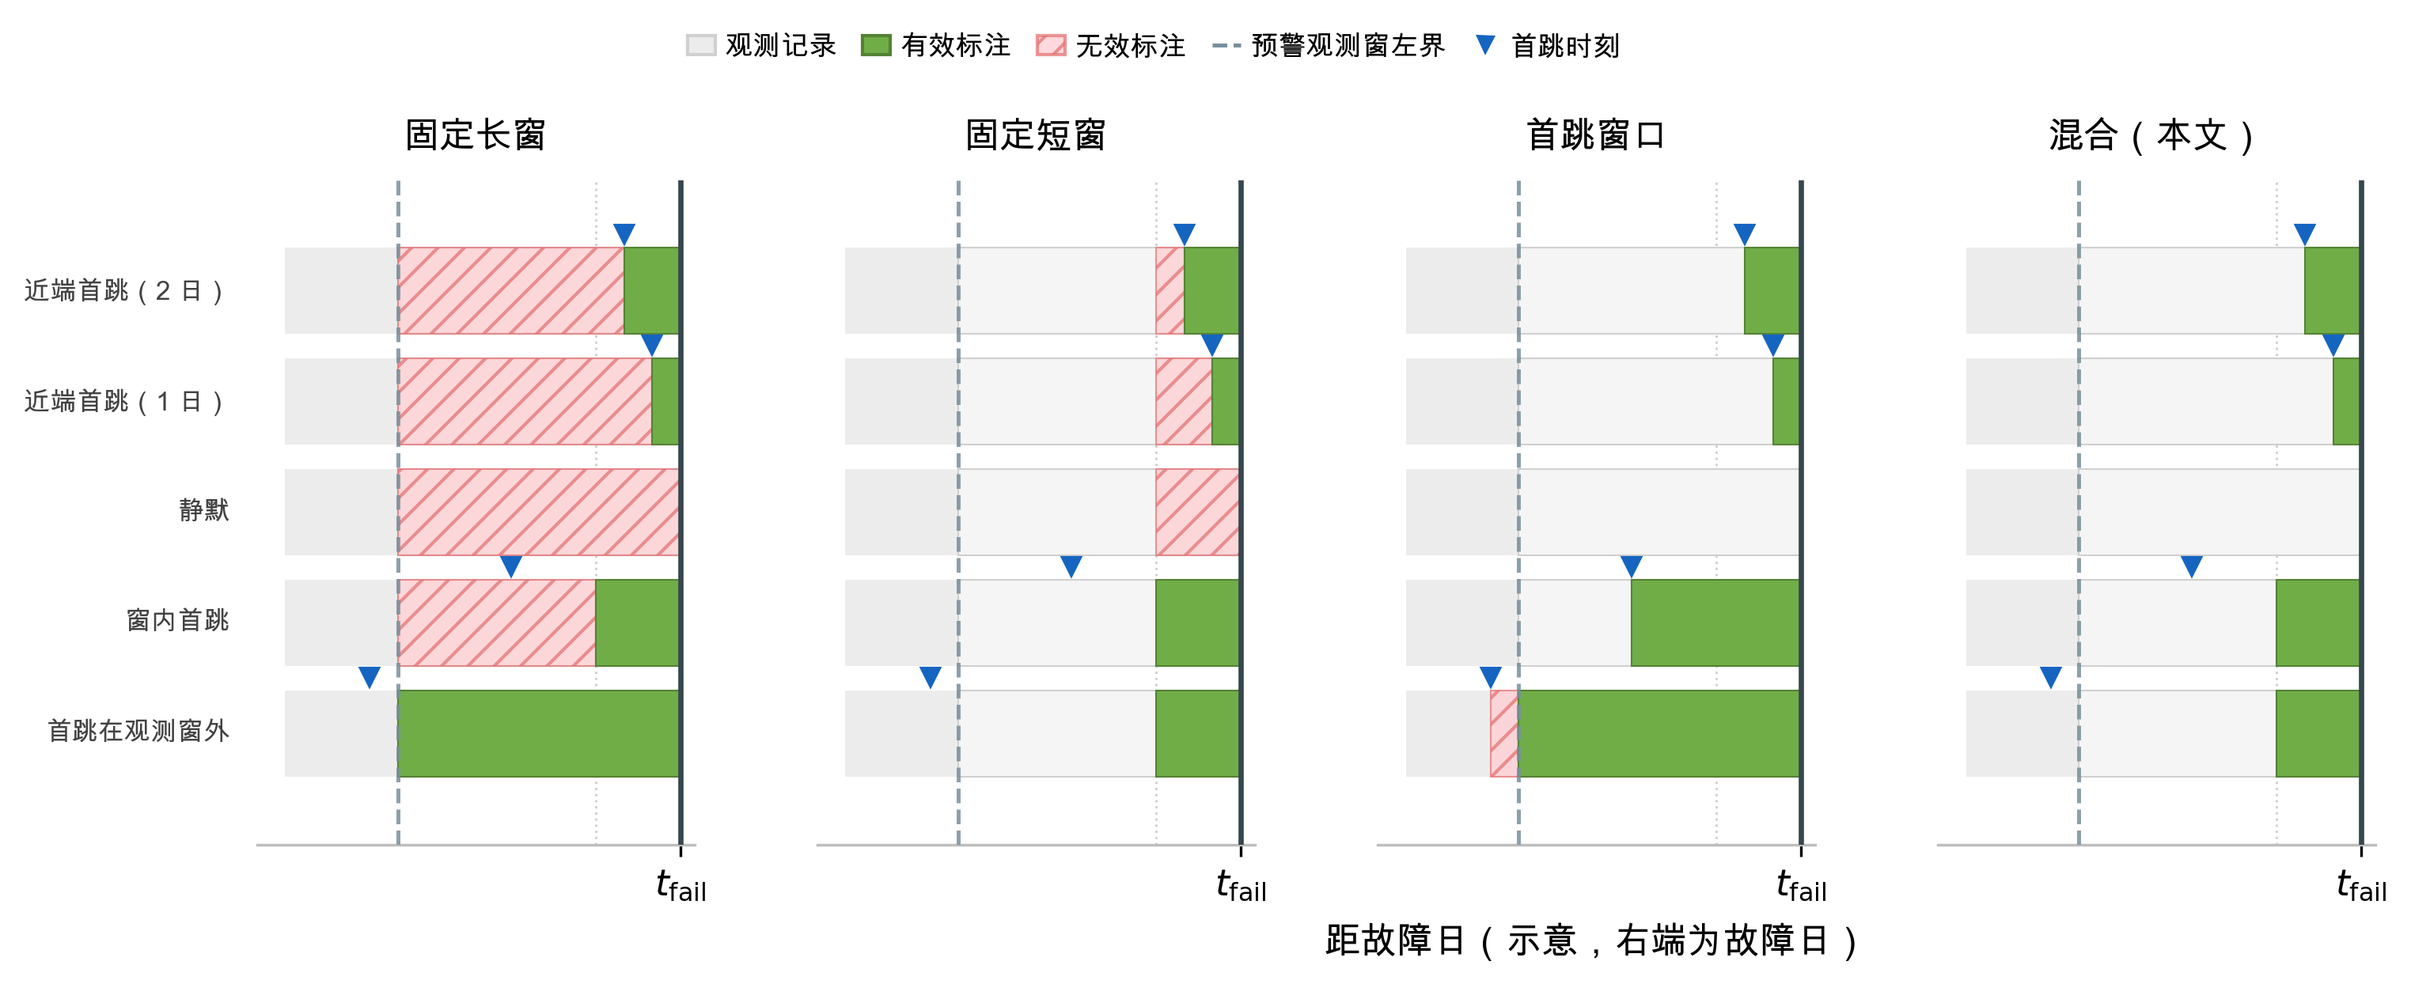
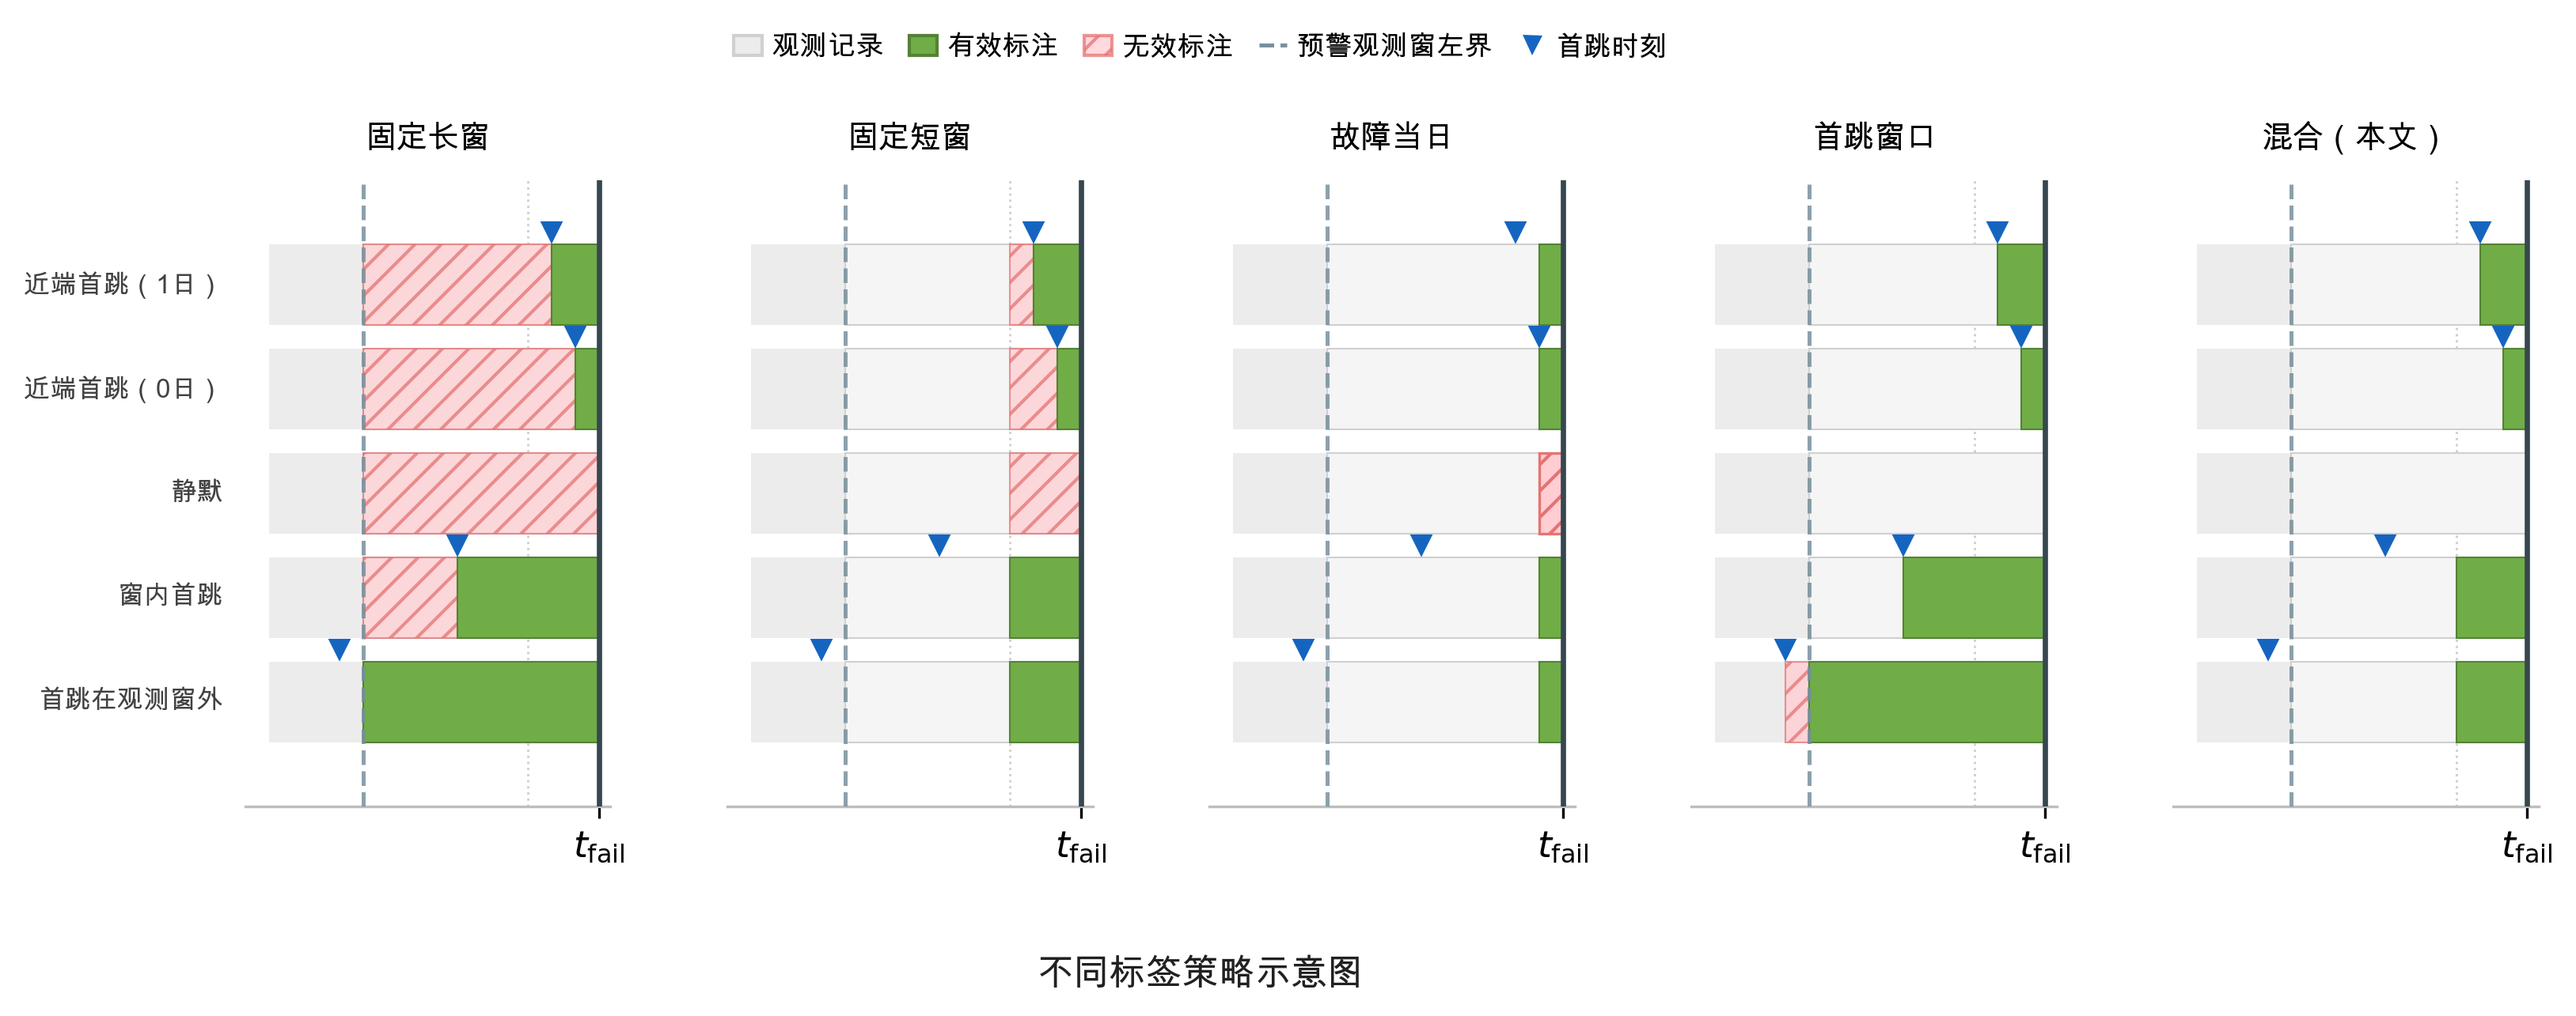
添加标签策略对比

diff --git a/figure_codes/chap3_label_strategy.py b/figure_codes/chap3_label_strategy.py
@@ -1,6 +1,6 @@
-"""第三章：四种标记策略对比示意
+"""第三章：五种标记策略对比示意
 
-生成 figure/chap3-label-strategy.png 与 .pdf。
+生成 figure/chap3-label-strategy.png。
 
 横轴为示意天数（非真实日历），仅保持相对位置：
 近端 d=1,2,3 更易辨认，远端首跳压缩。
@@ -35,8 +35,8 @@ RECORD_EXT = 4
 RECORD_LEFT = W + RECORD_EXT
 
 DISKS = [
-    ("近端首跳（2 日）", 2),
-    ("近端首跳（1 日）", 1),
+    ("近端首跳（1日）", 2),
+    ("近端首跳（0日）", 1),
     ("静默", None),
     ("窗内首跳", 6),
     ("首跳在观测窗外", 11),
@@ -45,6 +45,7 @@ DISKS = [
 STRATEGIES = [
     ("fix_long", "固定长窗"),
     ("fix_short", "固定短窗"),
+    ("fix_day", "故障当日"),
     ("jump", "首跳窗口"),
     ("mix", "混合（本文）"),
 ]
@@ -63,7 +64,6 @@ COLORS = {
 
 BAR_H = 0.13
 OUTPUT_PNG = FIGURE_DIR / "chap3-label-strategy.png"
-OUTPUT_PDF = FIGURE_DIR / "chap3-label-strategy.pdf"
 
 
 def _rect(ax, d_left, d_right, y, h, **kwargs):
@@ -76,7 +76,15 @@ def _obs_jump(d_jump, w=W):
     return d_jump
 
 
+def _resolve_strategy(strategy, k_short=K_SHORT):
+    if strategy == "fix_day":
+        return "fix_short", 0
+    return strategy, k_short
+
+
 def _label_segments(strategy, d_jump, w=W, k_short=K_SHORT, k_long=K_LONG):
+    strategy, k_short = _resolve_strategy(strategy, k_short)
+
     if d_jump is not None and d_jump > w:
         if strategy == "fix_long":
             return w, []
@@ -91,12 +99,19 @@ def _label_segments(strategy, d_jump, w=W, k_short=K_SHORT, k_long=K_LONG):
         if strategy == "fix_long":
             return None, [(w, 0)]
         if strategy == "fix_short":
+            # k=0 静默：故障日标正但无跳变前兆，视为无效标注（示意宽度 1 日）
+            if k_short == 0:
+                return None, [(1, 0)]
             return None, [(k_short, 0)]
         return None, []
 
     if strategy in ("fix_long", "fix_short"):
-        fix_end = w if strategy == "fix_long" else k_short
-        valid_left = min(d_jump, k_short)
+        if strategy == "fix_long":
+            fix_end = w
+            valid_left = d_jump
+        else:
+            fix_end = k_short
+            valid_left = min(d_jump, k_short)
         invalid = [(fix_end, valid_left)] if fix_end > valid_left else []
         return valid_left, invalid
     if strategy == "jump":
@@ -107,25 +122,43 @@ def _label_segments(strategy, d_jump, w=W, k_short=K_SHORT, k_long=K_LONG):
     raise ValueError(strategy)
 
 
-def _draw_labels(ax, y, strategy, d_jump, h=BAR_H):
-    valid_left, invalid_segs = _label_segments(strategy, d_jump)
+def _display_valid_left(valid_left, k_short):
+    # k=0 时有效区间退化为故障日单日，示意宽度与 k=3 中「一日」等宽
+    if k_short == 0 and valid_left == 0:
+        return 1
+    return valid_left
+
+
+def _display_invalid_seg(d_left, d_right, k_short):
+    if k_short == 0 and d_left == d_right:
+        return 1, 0
+    return d_left, d_right
+
+
+def _draw_labels(ax, y, strategy, d_jump, h=BAR_H, k_short=K_SHORT):
+    strategy, k_short = _resolve_strategy(strategy, k_short)
+    valid_left, invalid_segs = _label_segments(strategy, d_jump, k_short=k_short)
     if valid_left is not None:
         _rect(
-            ax, valid_left, 0, y, h,
+            ax, _display_valid_left(valid_left, k_short), 0, y, h,
             facecolor=COLORS["correct"],
             edgecolor="#548235",
             linewidth=0.5,
             zorder=3,
         )
     for d_left, d_right in invalid_segs:
+        d_left, d_right = _display_invalid_seg(d_left, d_right, k_short)
+        if d_left <= d_right:
+            continue
+        k0_invalid = k_short == 0
         _rect(
             ax, d_left, d_right, y, h,
             facecolor=COLORS["wrong_fc"],
             edgecolor=COLORS["wrong_ec"],
             hatch="///",
-            alpha=0.75,
-            linewidth=0.5,
-            zorder=2,
+            alpha=1.0 if k0_invalid else 0.75,
+            linewidth=0.8 if k0_invalid else 0.5,
+            zorder=4 if k0_invalid else 2,
         )
 
 
@@ -150,7 +183,7 @@ def plot_label_strategy(disks=DISKS, strategies=STRATEGIES, w=W, record_left=REC
     ys = _disk_ys(len(disks))
     plot_left = record_left + 1.0
 
-    fig, axes = plt.subplots(1, n_cols, figsize=(2.5 * n_cols + 0.5, 4.0), sharex=True)
+    fig, axes = plt.subplots(1, n_cols, figsize=(2.2 * n_cols + 0.5, 4.0), sharex=True)
     if n_cols == 1:
         axes = [axes]
 
@@ -159,7 +192,7 @@ def plot_label_strategy(disks=DISKS, strategies=STRATEGIES, w=W, record_left=REC
         ax.set_xlim(plot_left, -0.5)
         ax.set_ylim(0, 1)
         ax.set_yticks([])
-        ax.set_title(title, fontsize=11, pad=10)
+        ax.set_title(title, fontsize=9.5, pad=10)
         for spine in ("left", "top", "right"):
             ax.spines[spine].set_visible(False)
         ax.spines["bottom"].set_color("#BDBDBD")
@@ -178,7 +211,8 @@ def plot_label_strategy(disks=DISKS, strategies=STRATEGIES, w=W, record_left=REC
 
         ax.axvline(0, color=COLORS["fail"], lw=1.6, zorder=5)
         ax.axvline(w, color=COLORS["warn_line"], ls="--", lw=1.2, alpha=0.85, zorder=6)
-        ax.axvline(K_SHORT, color="#BDBDBD", ls=":", lw=0.7, zorder=0, alpha=0.7)
+        if key != "fix_day":
+            ax.axvline(K_SHORT, color="#BDBDBD", ls=":", lw=0.7, zorder=0, alpha=0.7)
 
         if c == 0:
             for y, (disk_label, _) in zip(ys, disks):
@@ -189,10 +223,18 @@ def plot_label_strategy(disks=DISKS, strategies=STRATEGIES, w=W, record_left=REC
                     fontsize=8.0, color="#424242",
                 )
 
-    axes[n_cols // 2].set_xlabel("距故障日（示意，右端为故障日）", labelpad=6)
+    fig.suptitle(
+        "不同标签策略示意图",
+        y=0.02,
+        fontsize=11,
+        fontweight="bold",
+        ha="center",
+        color="#212121",
+    )
     for ax in axes:
         ax.set_xticks([0])
         ax.set_xticklabels(["$t_{\\mathrm{fail}}$"])
+        ax.set_xlabel("")
 
     legend_handles = [
         mpatches.Patch(
@@ -224,7 +266,7 @@ def plot_label_strategy(disks=DISKS, strategies=STRATEGIES, w=W, record_left=REC
         handlelength=1.0, handletextpad=0.35, columnspacing=0.9,
     )
 
-    fig.subplots_adjust(left=0.14, right=0.99, top=0.84, bottom=0.14, wspace=0.28)
+    fig.subplots_adjust(left=0.15, right=0.99, top=0.84, bottom=0.18, wspace=0.32)
     return fig
 
 
@@ -232,10 +274,8 @@ def main():
     FIGURE_DIR.mkdir(parents=True, exist_ok=True)
     fig = plot_label_strategy()
     fig.savefig(OUTPUT_PNG, bbox_inches="tight")
-    fig.savefig(OUTPUT_PDF, bbox_inches="tight")
     plt.close(fig)
     print(f"saved: {OUTPUT_PNG}")
-    print(f"saved: {OUTPUT_PDF}")
 
 
 if __name__ == "__main__":
